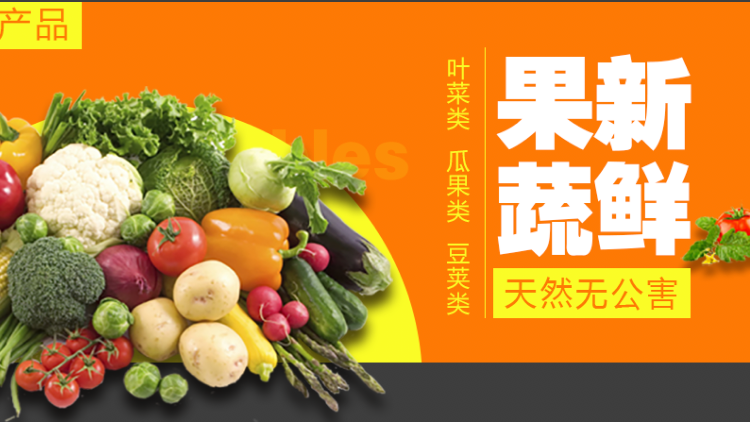
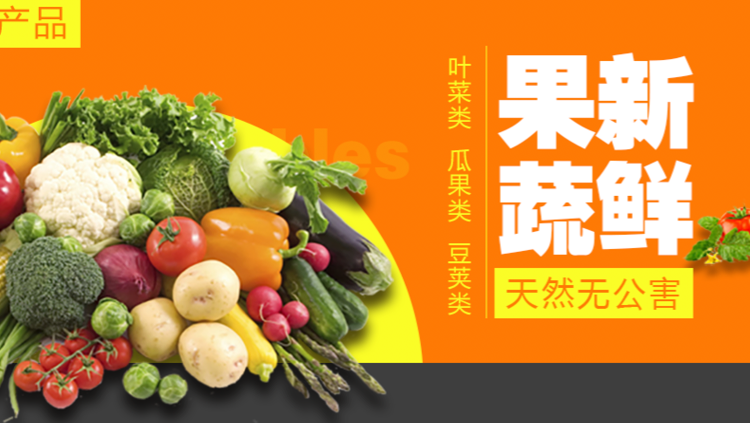
改

diff --git a/src/views/Home.vue b/src/views/Home.vue
@@ -8,9 +8,8 @@
     </div>-->
     <div class="img-cont">
       <img src="../assets/new.png" />
-      <svg class="icon icon-huaban1" aria-hidden="true">
-        <use xlink:href="#icon-huaban1"></use>
-      </svg>
+      <img class="icon-huaban1" src="../assets/share.png" />
+      
     </div>
     <div class="group-cont">
       <div class="padding-cont">
@@ -189,10 +188,10 @@ export default {
       .icon-huaban1{
         position: absolute;
         right: 10px;
-        top: -10px;
+        top: 0px;
         font-size: 20px;
-        width: 3.5em;
-        height: 3.5em;
+        width: 76px;
+        height: 49px;
         z-index:9999;
       }
     }
@@ -226,6 +225,7 @@ export default {
           margin-top: -10px;
           left: 50%;
           margin-left: -45px;
+          
         }
         .group-person{
           position: absolute;

diff --git a/src/main.js b/src/main.js
@@ -3,10 +3,6 @@ import App from "./App.vue";
 import router from "./router";
 import store from "./store";
 
-import ElementUI from 'element-ui';
-import 'element-ui/lib/theme-chalk/index.css';
-Vue.use(ElementUI);
-
 import './assets/fonts/iconfont.css'
 import './assets/fonts/iconfont.js'
 
